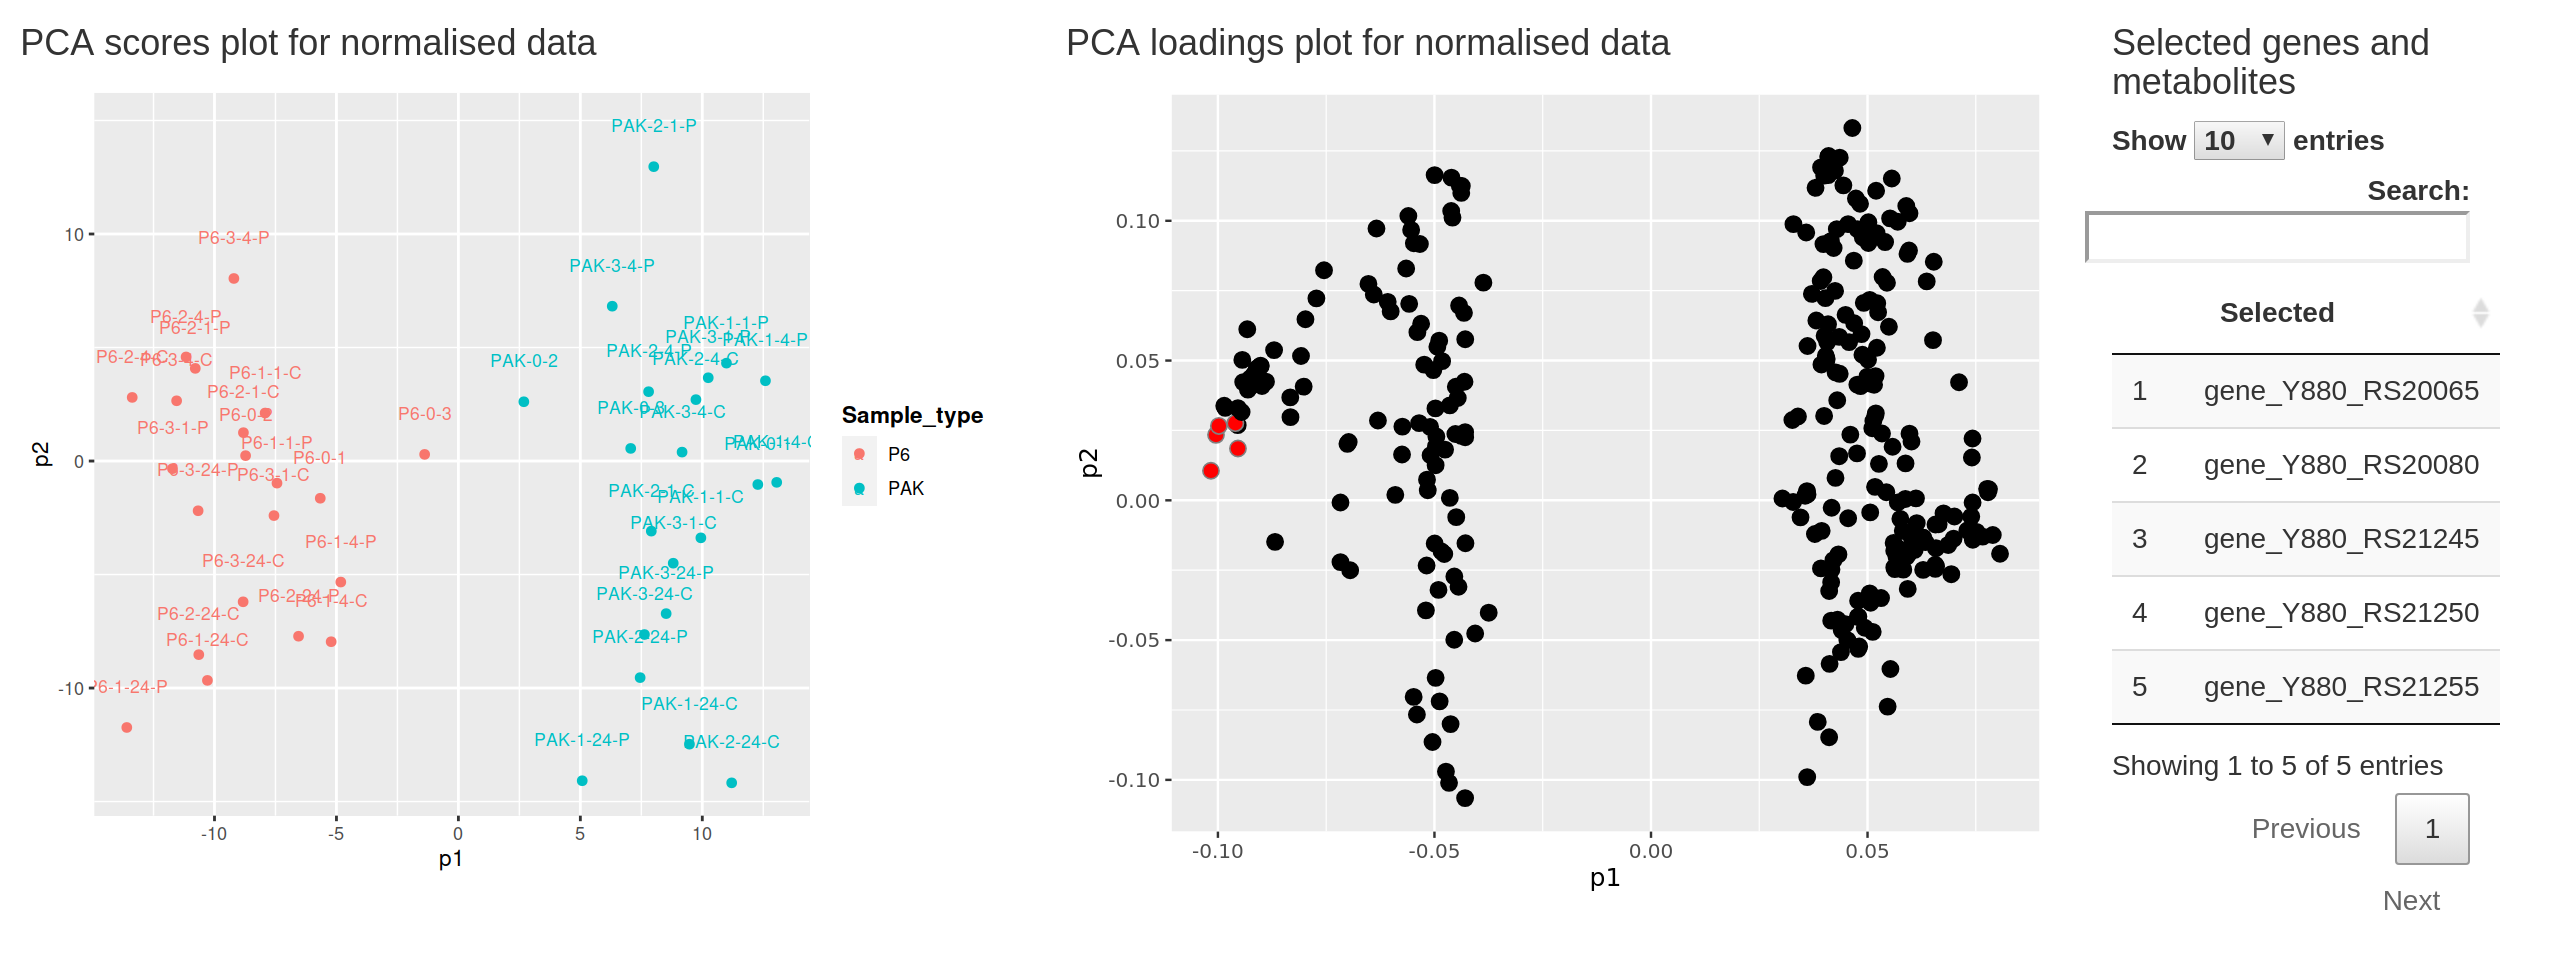
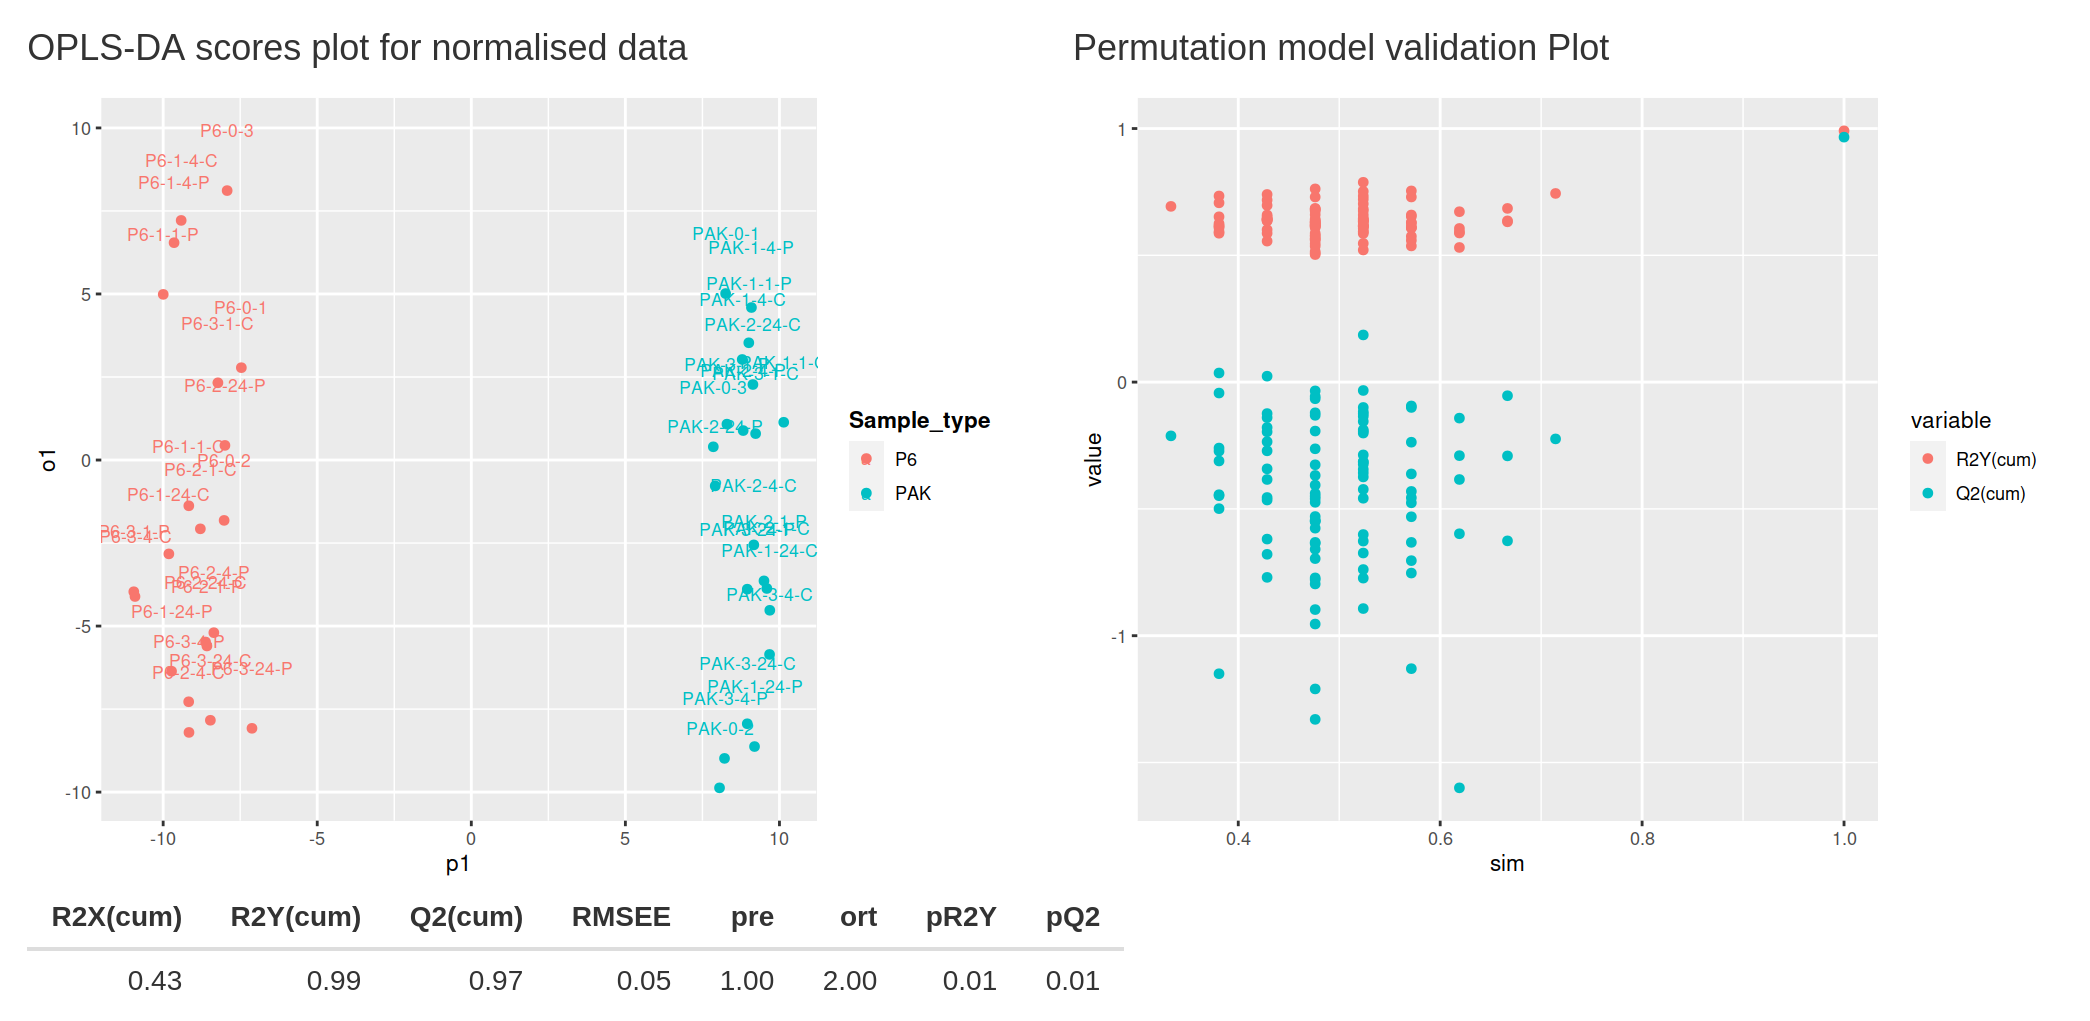
update

diff --git a/My First Shiny App.md b/My First Shiny App.md
@@ -35,7 +35,7 @@ gene_Y880_RS01650	ybgC
 There are two models that can be computed using this app. The first model is Principal component analysis (PCA) and Orthogonal Projections to Latent Structures Discriminant Analysis (OPLS-DA). Both of these model uses the ropls package in R[1]. A very good tutorial for using this package can be found here - https://www.bioconductor.org/packages/devel/bioc/vignettes/ropls/inst/doc/ropls-vignette.html (use of command line only)
 
 ## PCA
-![image](https://github.com/flolai/TMMS-GUI/blob/master/app_graphics/plot_area_1.png?raw=true)
+![image](https://github.com/flolai/TMMS-GUI/blob/master/app_graphics/plot_area_2.png?raw=true)
 
 A good explaination of PCA scores plot and loadings plot explaination can be found in the website below
 https://blog.umetrics.com/what-is-principal-component-analysis-pca-and-how-it-is-used
@@ -44,7 +44,8 @@ https://blog.bioturing.com/2018/06/18/how-to-read-pca-biplots-and-scree-plots
 Briefly, when a group of samples clustered together in a scores plot, it is likely that there are some similarities between them. In the example data above, on the left you have sample type P6 at different time points and different treatment so it make sense for them to be clustered together.  The positioning of genes and metabolites in the loadings plot correlates to the positioning of samples in the scores plot. As there are likely to be many variables in a multiomic dataset, the name/ID in the loadings plot will not be shown unless you hover over to that specific gene/metabolite. You can use the group selection settings (highlighted in red) available to select a section from the loadings plot and these can be copied to a text file or csv file for further interrogation if needed.
 
 ## OPLS-DA
-![image](https://github.com/flolai/TMMS-GUI/blob/master/app_graphics/oplsda_plot_GUI.png?raw=true)
+![image](https://github.com/flolai/TMMS-GUI/blob/master/app_graphics/oplsda_plot_GUI_2.png?raw=true)
+
 
 A very simple explaination of OPLS-Da model can be found in the link below
 https://blog.umetrics.com/explaining-differences-or-grouping-data-opls-da-vs-pca-data-analysis
